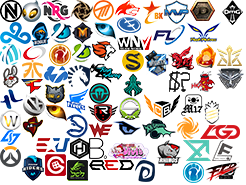
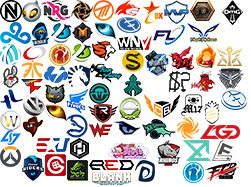
Flairs added: CLG, Evil Geniuses Flair updated: Blank

diff --git a/src/styles.css b/src/styles.css
@@ -2447,9 +2447,9 @@ body .flairselector li:hover {
 	width: 36px
 }
 .flair-blank, .md a[href*="blank"] {
-	background-position: -89px -138px;
-	height: 21px;
-	width: 18px;
+	background-position: -92px -172px;
+	height: 14px;
+	width: 40px;
 }
 .flair-hammers, .md a[href*="hammers"] {
 	background-position: -70px -138px;
@@ -2631,6 +2631,16 @@ body .flairselector li:hover {
 	height: 21px;
 	width: 28px;
 }
+.flair-counter-logic-gaming, .md a[href*="counter-logic-gaming"] {
+	background-position: 0 -130px;
+	height: 15px;
+	width: 21px;
+}
+.flair-evil-geniuses, .md a[href*="counter-evil-geniuses"] {
+	background-position: -221px -90px;
+	height: 20px;
+	width: 26px;
+}
 
 /* Flair picker team names */
 .flairselector .flair-envyus+span:after { content:"EnVyUs" }
@@ -2705,6 +2715,8 @@ body .flairselector li:hover {
 .flairselector .flair-lucky-future+span:after { content:"Lucky Future" }
 .flairselector .flair-jhg-gold+span:after { content:"JHG Gold" }
 .flairselector .flair-miraculous-youngsters+span:after { content:"Miraculous Youngsters" }
+.flairselector .flair-counter-logic-gaming+span:after { content:"Counter Logic Gaming" }
+.flairselector .flair-evil-geniuses+span:after { content:"Evil Geniuses" }
 
 /* Small team and flag icons */
 .md a[href^="#team-small-"], .md a[href^="#flag-small-"] {
